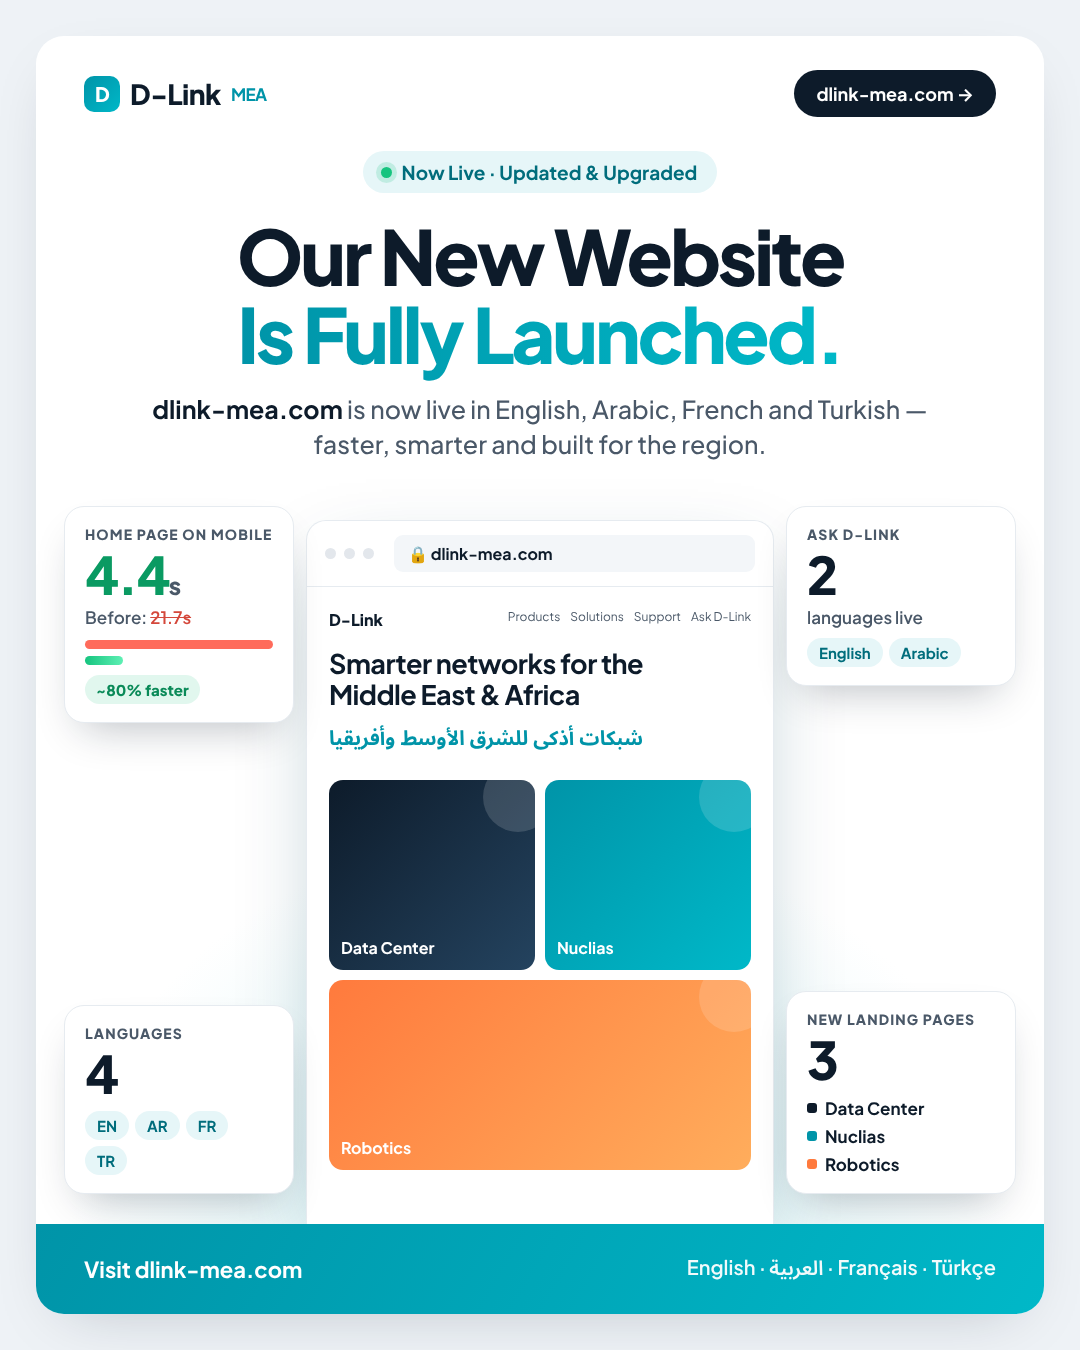
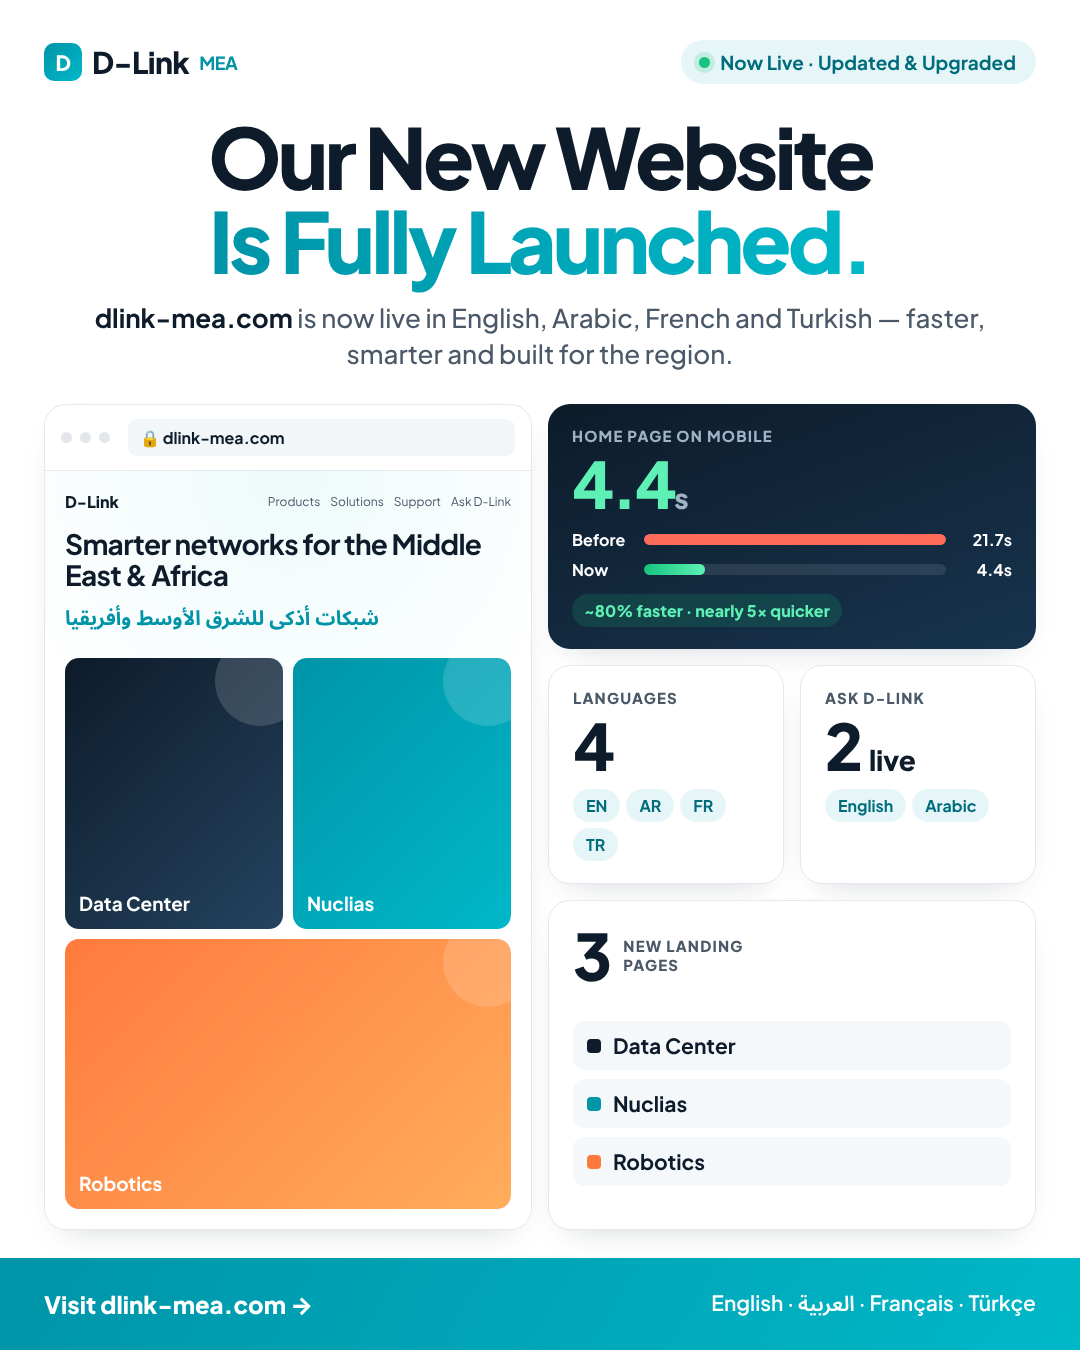
Make LinkedIn post layout compact (bento grid)
Claude-Session: https://claude.ai/code/session_01KMrXLp6ugYdKE7jSD4BzfQ

diff --git a/dlink-mea-linkedin.html b/dlink-mea-linkedin.html
@@ -5,123 +5,91 @@
 <title>D-Link MEA — LinkedIn Post (1080×1350)</title>
 <link href="https://fonts.googleapis.com/css2?family=Plus+Jakarta+Sans:wght@400;500;600;700;800&family=Noto+Sans+Arabic:wght@600;700&display=swap" rel="stylesheet" />
 <style>
-  :root{--ink:#0d1b2a;--muted:#4a5868;--line:#e6ebf0;--brand:#0094a8;--brand-2:#00b8c8;--soft:#e6f6f8}
+  :root{--ink:#0d1b2a;--muted:#4a5868;--line:#e3e9ef;--brand:#0094a8;--brand-2:#00b8c8;--soft:#e6f6f8}
   *{box-sizing:border-box;margin:0;padding:0}
   html,body{width:1080px;height:1350px;overflow:hidden}
-  body{font-family:"Plus Jakarta Sans",system-ui,sans-serif;color:var(--ink);background:#eef2f6;padding:36px;-webkit-font-smoothing:antialiased}
-  .post{width:100%;height:100%;background:#fff;border-radius:28px;overflow:hidden;position:relative;display:flex;flex-direction:column;box-shadow:0 20px 60px -30px rgba(13,27,42,.25)}
+  body{font-family:"Plus Jakarta Sans",system-ui,sans-serif;color:var(--ink);background:#fff;padding:40px 44px 0;display:flex;flex-direction:column;-webkit-font-smoothing:antialiased}
 
-  nav{display:flex;justify-content:space-between;align-items:center;padding:34px 48px 0}
-  .logo{display:flex;align-items:center;gap:10px;font-weight:800;font-size:28px;letter-spacing:-.02em}
-  .logo .mark{width:36px;height:36px;border-radius:10px;background:linear-gradient(135deg,var(--brand),var(--brand-2));color:#fff;display:grid;place-items:center;font-size:20px}
-  .logo small{color:var(--brand);font-size:17px;font-weight:700}
-  .visit{background:var(--ink);color:#fff;font-weight:700;font-size:18px;padding:12px 22px;border-radius:999px}
-
-  .hero{text-align:center;padding:34px 48px 0}
-  .pill{display:inline-flex;align-items:center;gap:10px;background:var(--soft);color:#006d7c;font-weight:700;font-size:19px;padding:9px 20px 9px 14px;border-radius:999px}
+  nav{display:flex;justify-content:space-between;align-items:center}
+  .logo{display:flex;align-items:center;gap:10px;font-weight:800;font-size:30px;letter-spacing:-.02em}
+  .logo .mark{width:38px;height:38px;border-radius:10px;background:linear-gradient(135deg,var(--brand),var(--brand-2));color:#fff;display:grid;place-items:center;font-size:21px}
+  .logo small{color:var(--brand);font-size:18px;font-weight:700}
+  .pill{display:inline-flex;align-items:center;gap:10px;background:var(--soft);color:#006d7c;font-weight:700;font-size:19px;padding:10px 20px 10px 14px;border-radius:999px}
   .pill .dot{width:11px;height:11px;border-radius:50%;background:#16c47f;box-shadow:0 0 0 5px rgba(22,196,127,.18);margin-left:4px}
-  h1{font-size:76px;line-height:1.02;letter-spacing:-.04em;font-weight:800;margin-top:24px}
+
+  .hero{text-align:center;margin-top:30px}
+  h1{font-size:84px;line-height:1;letter-spacing:-.045em;font-weight:800}
   h1 .accent{background:linear-gradient(90deg,var(--brand),var(--brand-2));-webkit-background-clip:text;background-clip:text;color:transparent}
-  .sub{font-size:25px;color:var(--muted);font-weight:500;line-height:1.4;margin:20px auto 0;max-width:820px}
+  .sub{font-size:26px;color:var(--muted);font-weight:500;line-height:1.38;margin:18px auto 0;max-width:900px}
   .sub b{color:var(--ink)}
 
-  .stage{position:relative;flex:1;margin-top:34px;background:radial-gradient(ellipse 65% 75% at 50% 100%,#d4f2f5 0%,rgba(212,242,245,0) 72%)}
-  .browser{position:absolute;left:50%;top:24px;bottom:0;transform:translateX(-50%);width:468px;background:#fff;border:1px solid var(--line);border-bottom:0;border-radius:20px 20px 0 0;box-shadow:0 30px 80px -20px rgba(0,70,90,.3)}
-  .bar{display:flex;align-items:center;gap:8px;padding:14px 18px;border-bottom:1px solid var(--line)}
+  .bento{flex:1;display:grid;grid-template-columns:1fr 1fr;grid-template-rows:auto auto 1fr;gap:16px;margin:32px 0 28px}
+  .card{border:1px solid var(--line);border-radius:22px;padding:22px 24px;background:#fff;box-shadow:0 14px 34px -22px rgba(13,27,42,.28)}
+  .k{font-size:15px;font-weight:800;letter-spacing:.08em;text-transform:uppercase;color:var(--muted)}
+  .v{font-size:64px;font-weight:800;letter-spacing:-.045em;line-height:1;margin-top:6px}
+  .v small{font-size:28px;letter-spacing:-.01em}
+  .chips{display:flex;gap:6px;flex-wrap:wrap;margin-top:12px}
+  .chip{font-size:16px;font-weight:700;padding:6px 13px;border-radius:999px;background:var(--soft);color:#006d7c}
+
+  .browser{grid-row:1 / span 3;padding:0;overflow:hidden;display:flex;flex-direction:column}
+  .bar{display:flex;align-items:center;gap:8px;padding:14px 16px;border-bottom:1px solid var(--line)}
   .bar i{width:11px;height:11px;border-radius:50%;background:#e3e7ec}
-  .url{margin-left:12px;flex:1;background:#f3f6f9;border-radius:9px;padding:8px 14px;font-size:16px;color:var(--muted)}
+  .url{margin-left:10px;flex:1;background:#f3f6f9;border-radius:9px;padding:8px 12px;font-size:16px;color:var(--muted)}
   .url b{color:var(--ink)}
-  .site{padding:22px 22px 0}
-  .site-nav{display:flex;justify-content:space-between;font-size:13px;color:var(--muted);margin-bottom:18px}
+  .site{padding:20px;flex:1;display:flex;flex-direction:column;background:radial-gradient(ellipse 90% 60% at 50% 0%,#eefafb,#fff 70%)}
+  .site-nav{display:flex;justify-content:space-between;align-items:center;font-size:12px;color:var(--muted);margin-bottom:16px}
   .site-nav .l{font-weight:800;color:var(--ink);font-size:16px}
-  .site-nav .r{display:flex;gap:10px;font-size:12px}
-  .site h3{font-size:27px;letter-spacing:-.02em;line-height:1.15}
-  .ar{font-family:"Noto Sans Arabic",sans-serif;direction:rtl;font-size:20px;color:var(--brand);margin-top:8px;font-weight:700;text-align:left}
-  .tiles{display:grid;grid-template-columns:1fr 1fr;gap:10px;margin-top:20px}
-  .tile{border-radius:14px;height:190px;padding:12px;color:#fff;font-weight:700;font-size:16px;display:flex;align-items:flex-end;position:relative;overflow:hidden}
-  .tile::after{content:"";position:absolute;right:-18px;top:-18px;width:70px;height:70px;border-radius:50%;background:rgba(255,255,255,.15)}
+  .site-nav .r{display:flex;gap:10px}
+  .site h3{font-size:28px;letter-spacing:-.025em;line-height:1.12}
+  .ar{font-family:"Noto Sans Arabic",sans-serif;direction:rtl;text-align:left;font-size:20px;color:var(--brand);margin-top:8px;font-weight:700}
+  .tiles{flex:1;display:grid;grid-template-columns:1fr 1fr;grid-template-rows:1fr 1fr;gap:10px;margin-top:18px}
+  .tile{border-radius:14px;padding:14px;color:#fff;font-weight:700;font-size:19px;display:flex;align-items:flex-end;position:relative;overflow:hidden}
+  .tile::after{content:"";position:absolute;right:-22px;top:-22px;width:90px;height:90px;border-radius:50%;background:rgba(255,255,255,.15)}
   .t1{background:linear-gradient(135deg,#0d1b2a,#24435f)}
   .t2{background:linear-gradient(135deg,var(--brand),var(--brand-2))}
   .t3{grid-column:span 2;background:linear-gradient(135deg,#ff7a3d,#ffad5c)}
 
-  .float{position:absolute;background:#fff;border:1px solid var(--line);border-radius:20px;padding:18px 20px;box-shadow:0 20px 44px -18px rgba(13,27,42,.3);z-index:2}
-  .k{font-size:14px;font-weight:800;letter-spacing:.08em;text-transform:uppercase;color:var(--muted)}
-  .v{font-size:52px;font-weight:800;letter-spacing:-.04em;line-height:1.05;margin-top:4px}
-  .v small{font-size:24px;color:var(--muted);letter-spacing:-.01em}
-  .s{font-size:17px;color:var(--muted);margin-top:4px;font-weight:600}
-  .chips{display:flex;gap:6px;flex-wrap:wrap;margin-top:10px}
-  .chip{font-size:15px;font-weight:700;padding:5px 12px;border-radius:999px;background:var(--soft);color:#006d7c}
+  .speed{background:linear-gradient(160deg,#0d1b2a,#17344e);border:0;color:#fff}
+  .speed .k{color:#9fb3c6}
+  .speed .v{color:#5ef0b4}
+  .speed .v small{color:#9fb3c6}
+  .rows{display:flex;flex-direction:column;gap:9px;margin-top:14px}
+  .row{display:grid;grid-template-columns:62px 1fr 56px;align-items:center;gap:10px;font-size:16px;font-weight:700}
+  .row .t{text-align:right}
+  .track{height:11px;border-radius:9px;background:rgba(255,255,255,.1);overflow:hidden}
+  .track div{height:100%;border-radius:9px}
+  .badge{display:inline-block;margin-top:14px;background:rgba(22,196,127,.16);color:#5ef0b4;font-size:16px;font-weight:800;padding:6px 12px;border-radius:999px}
 
-  .f-speed{left:28px;top:10px;width:230px}
-  .f-speed .v{color:#0a9a62}
-  .f-speed s{color:#d4483b}
-  .bars{margin-top:12px;display:flex;flex-direction:column;gap:7px}
-  .bars div{height:9px;border-radius:9px}
-  .b1{background:#ff6b5b;width:100%}
-  .b2{background:linear-gradient(90deg,#16c47f,#5ef0b4);width:20.3%}
-  .badge{display:inline-block;margin-top:10px;background:rgba(22,196,127,.13);color:#0a8a58;font-size:15px;font-weight:800;padding:5px 11px;border-radius:999px}
+  .pair{display:grid;grid-template-columns:1fr 1fr;gap:16px}
+  .pages{display:flex;flex-direction:column}
+  .pages .top{display:flex;align-items:center;gap:14px}
+  .pages .top .v{margin-top:0}
+  .list{display:flex;flex-direction:column;gap:9px;margin-top:14px;flex:1;justify-content:center}
+  .list span{display:flex;align-items:center;gap:12px;font-size:21px;font-weight:700;padding:11px 14px;border-radius:12px;background:#f5f8fa}
+  .list i{width:14px;height:14px;border-radius:4px}
 
-  .f-ask{right:28px;top:10px;width:230px}
-  .f-lang{left:28px;bottom:30px;width:230px}
-  .f-pages{right:28px;bottom:30px;width:230px}
-  .f-pages .list{display:flex;flex-direction:column;gap:6px;margin-top:10px;font-size:17px;font-weight:700}
-  .f-pages .list span{display:flex;align-items:center;gap:8px}
-  .f-pages .list i{width:10px;height:10px;border-radius:3px}
-
-  footer{background:linear-gradient(120deg,var(--brand),var(--brand-2));color:#fff;padding:24px 48px;display:flex;justify-content:space-between;align-items:center;font-weight:700;font-size:22px;position:relative;z-index:3}
-  footer .langs{font-weight:600;opacity:.95;font-size:20px}
-  footer .langs .a{font-family:"Noto Sans Arabic",sans-serif}
+  footer{margin:0 -44px;background:linear-gradient(120deg,var(--brand),var(--brand-2));color:#fff;padding:24px 44px;display:flex;justify-content:space-between;align-items:center;font-weight:800;font-size:24px}
+  footer .langs{font-weight:600;font-size:21px}
+  footer .a{font-family:"Noto Sans Arabic",sans-serif}
 </style>
 </head>
 <body>
-<div class="post">
   <nav>
     <div class="logo"><span class="mark">D</span>D-Link <small>MEA</small></div>
-    <div class="visit">dlink-mea.com →</div>
+    <div class="pill"><span class="dot"></span>Now Live · Updated &amp; Upgraded</div>
   </nav>
 
   <div class="hero">
-    <div class="pill"><span class="dot"></span>Now Live · Updated &amp; Upgraded</div>
     <h1>Our New Website<br><span class="accent">Is Fully Launched.</span></h1>
     <p class="sub"><b>dlink-mea.com</b> is now live in English, Arabic, French and Turkish — faster, smarter and built for the region.</p>
   </div>
 
-  <div class="stage">
-    <div class="float f-speed">
-      <div class="k">Home page on mobile</div>
-      <div class="v">4.4<small>s</small></div>
-      <div class="s">Before: <s>21.7s</s></div>
-      <div class="bars"><div class="b1"></div><div class="b2"></div></div>
-      <span class="badge">~80% faster</span>
-    </div>
-
-    <div class="float f-ask">
-      <div class="k">Ask D-Link</div>
-      <div class="v">2</div><div class="s">languages live</div>
-      <div class="chips"><span class="chip">English</span><span class="chip">Arabic</span></div>
-    </div>
-
-    <div class="float f-lang">
-      <div class="k">Languages</div>
-      <div class="v">4</div>
-      <div class="chips"><span class="chip">EN</span><span class="chip">AR</span><span class="chip">FR</span><span class="chip">TR</span></div>
-    </div>
-
-    <div class="float f-pages">
-      <div class="k">New landing pages</div>
-      <div class="v">3</div>
-      <div class="list">
-        <span><i style="background:#0d1b2a"></i>Data Center</span>
-        <span><i style="background:#0094a8"></i>Nuclias</span>
-        <span><i style="background:#ff7a3d"></i>Robotics</span>
-      </div>
-    </div>
-
-    <div class="browser">
+  <div class="bento">
+    <div class="card browser">
       <div class="bar"><i></i><i></i><i></i><div class="url">🔒 <b>dlink-mea.com</b></div></div>
       <div class="site">
         <div class="site-nav"><span class="l">D-Link</span><span class="r"><span>Products</span><span>Solutions</span><span>Support</span><span>Ask D-Link</span></span></div>
-        <h3>Smarter networks for the<br>Middle East &amp; Africa</h3>
+        <h3>Smarter networks for the Middle East &amp; Africa</h3>
         <div class="ar">شبكات أذكى للشرق الأوسط وأفريقيا</div>
         <div class="tiles">
           <div class="tile t1">Data Center</div>
@@ -130,12 +98,43 @@
         </div>
       </div>
     </div>
+
+    <div class="card speed">
+      <div class="k">Home page on mobile</div>
+      <div class="v">4.4<small>s</small></div>
+      <div class="rows">
+        <div class="row"><span>Before</span><div class="track"><div style="width:100%;background:#ff6b5b"></div></div><span class="t">21.7s</span></div>
+        <div class="row"><span>Now</span><div class="track"><div style="width:20.3%;background:linear-gradient(90deg,#16c47f,#5ef0b4)"></div></div><span class="t">4.4s</span></div>
+      </div>
+      <span class="badge">~80% faster · nearly 5× quicker</span>
+    </div>
+
+    <div class="pair">
+      <div class="card">
+        <div class="k">Languages</div>
+        <div class="v">4</div>
+        <div class="chips"><span class="chip">EN</span><span class="chip">AR</span><span class="chip">FR</span><span class="chip">TR</span></div>
+      </div>
+      <div class="card">
+        <div class="k">Ask D-Link</div>
+        <div class="v">2 <small>live</small></div>
+        <div class="chips"><span class="chip">English</span><span class="chip">Arabic</span></div>
+      </div>
+    </div>
+
+    <div class="card pages">
+      <div class="top"><div class="v">3</div><div class="k">New landing<br>pages</div></div>
+      <div class="list">
+        <span><i style="background:#0d1b2a"></i>Data Center</span>
+        <span><i style="background:#0094a8"></i>Nuclias</span>
+        <span><i style="background:#ff7a3d"></i>Robotics</span>
+      </div>
+    </div>
   </div>
 
   <footer>
-    <span>Visit dlink-mea.com</span>
+    <span>Visit dlink-mea.com →</span>
     <span class="langs">English · <span class="a">العربية</span> · Français · Türkçe</span>
   </footer>
-</div>
 </body>
 </html>
